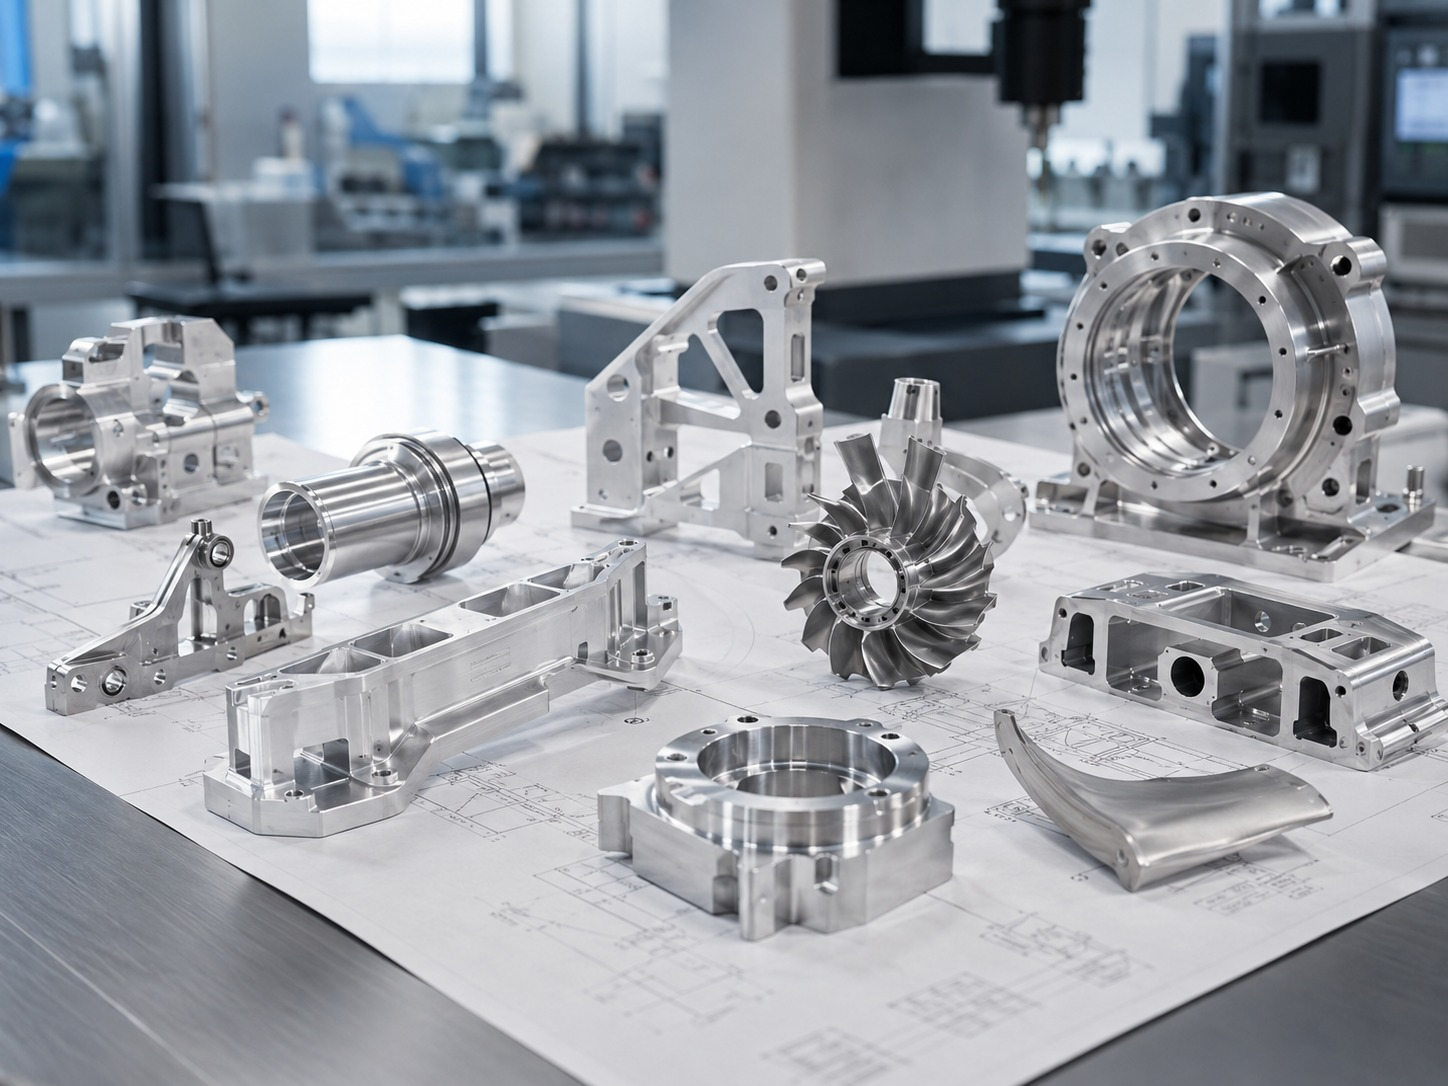
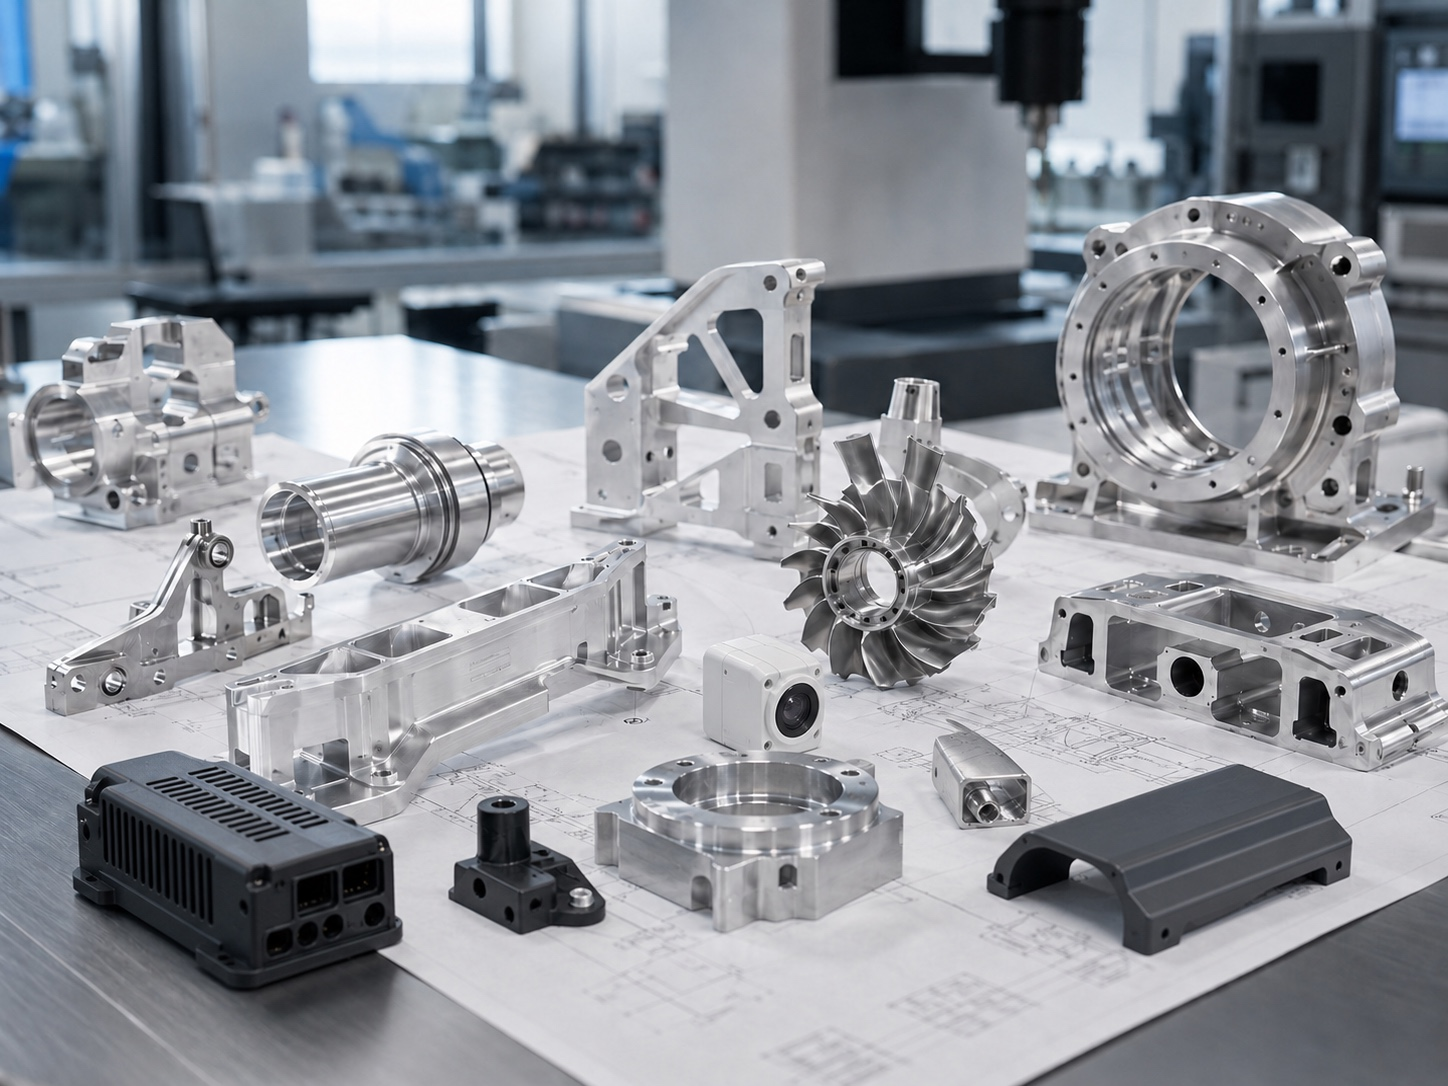
Update industry product imagery

diff --git a/app/page.tsx b/app/page.tsx
@@ -261,12 +261,12 @@ const industryCategories = [
     href: "/industries/new-energy"
   },
   {
-    title: "Outdoor & New Energy Products",
-    description: "Weather-resistant housings, structural components, and assemblies for outdoor equipment and new energy product applications.",
-    tags: ["Outdoor Housings", "Weather Resistance", "Structural Parts", "New Energy"],
+    title: "Home Appliance",
+    description: "Injection-molded housings, smart device enclosures, control panels, and functional plastic parts for home appliance products.",
+    tags: ["Appliance Housings", "Smart Device Enclosures", "Control Panels", "Functional Plastic Parts"],
     image: "/images/industries/home-appliance-smart-home-components.jpg",
-    alt: "Durable components for outdoor equipment and new energy products",
-    href: "/industries/outdoor-products"
+    alt: "Plastic housings, control panels, and functional parts for home appliances",
+    href: "/industries/smart-home"
   },
   {
     title: "Pet Tech Products",
